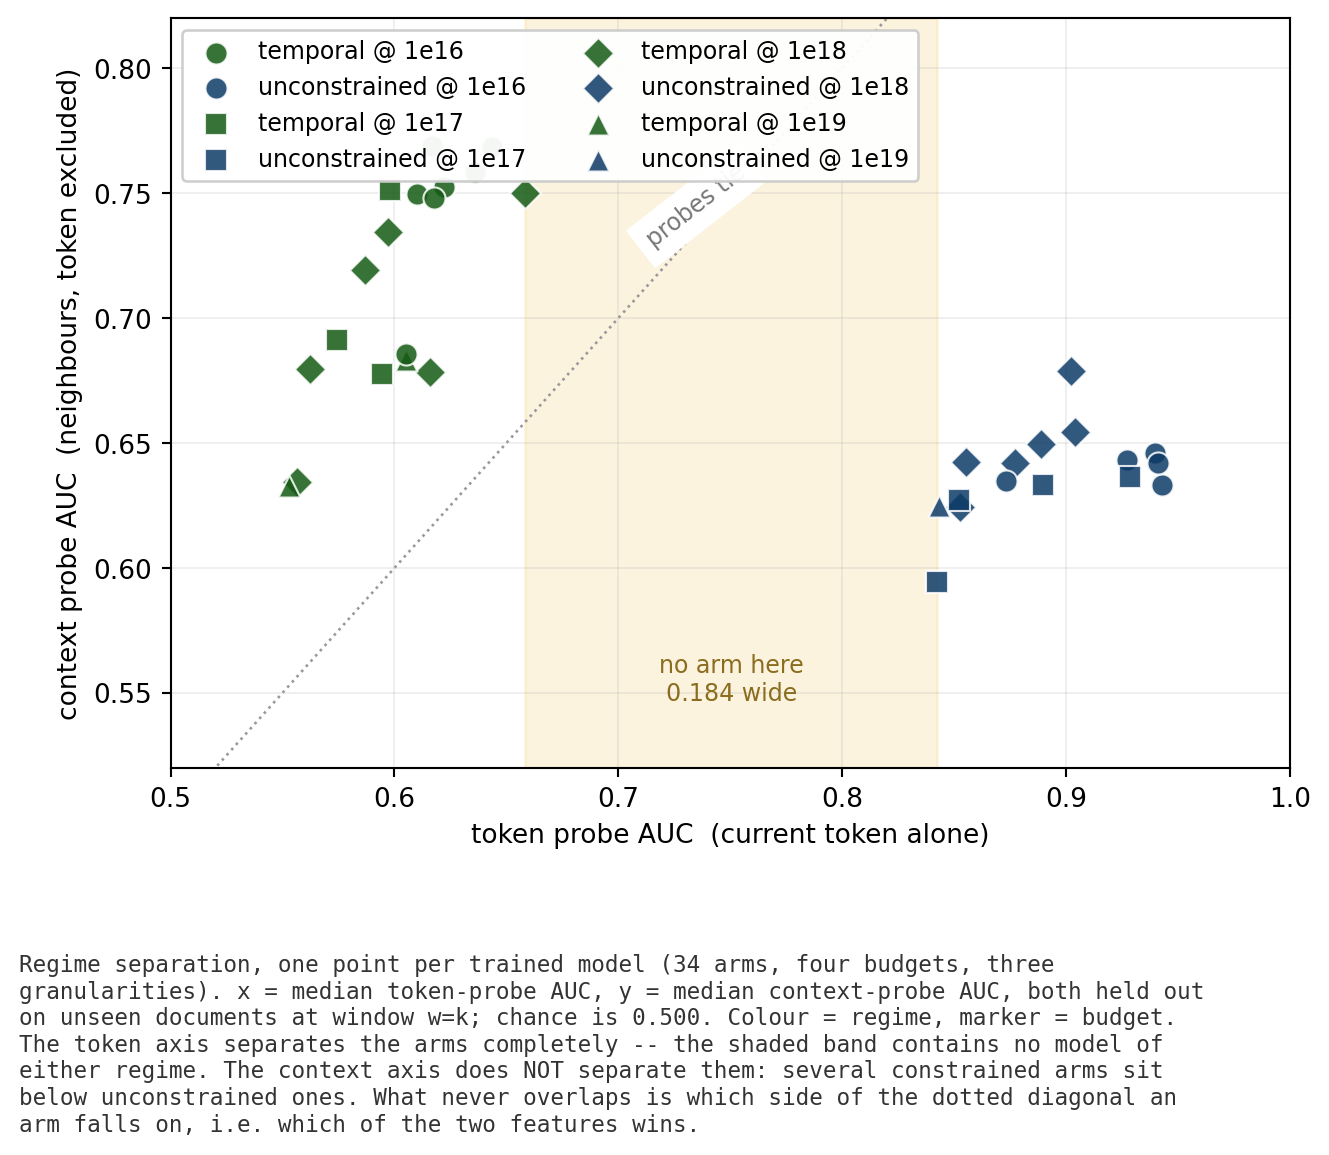
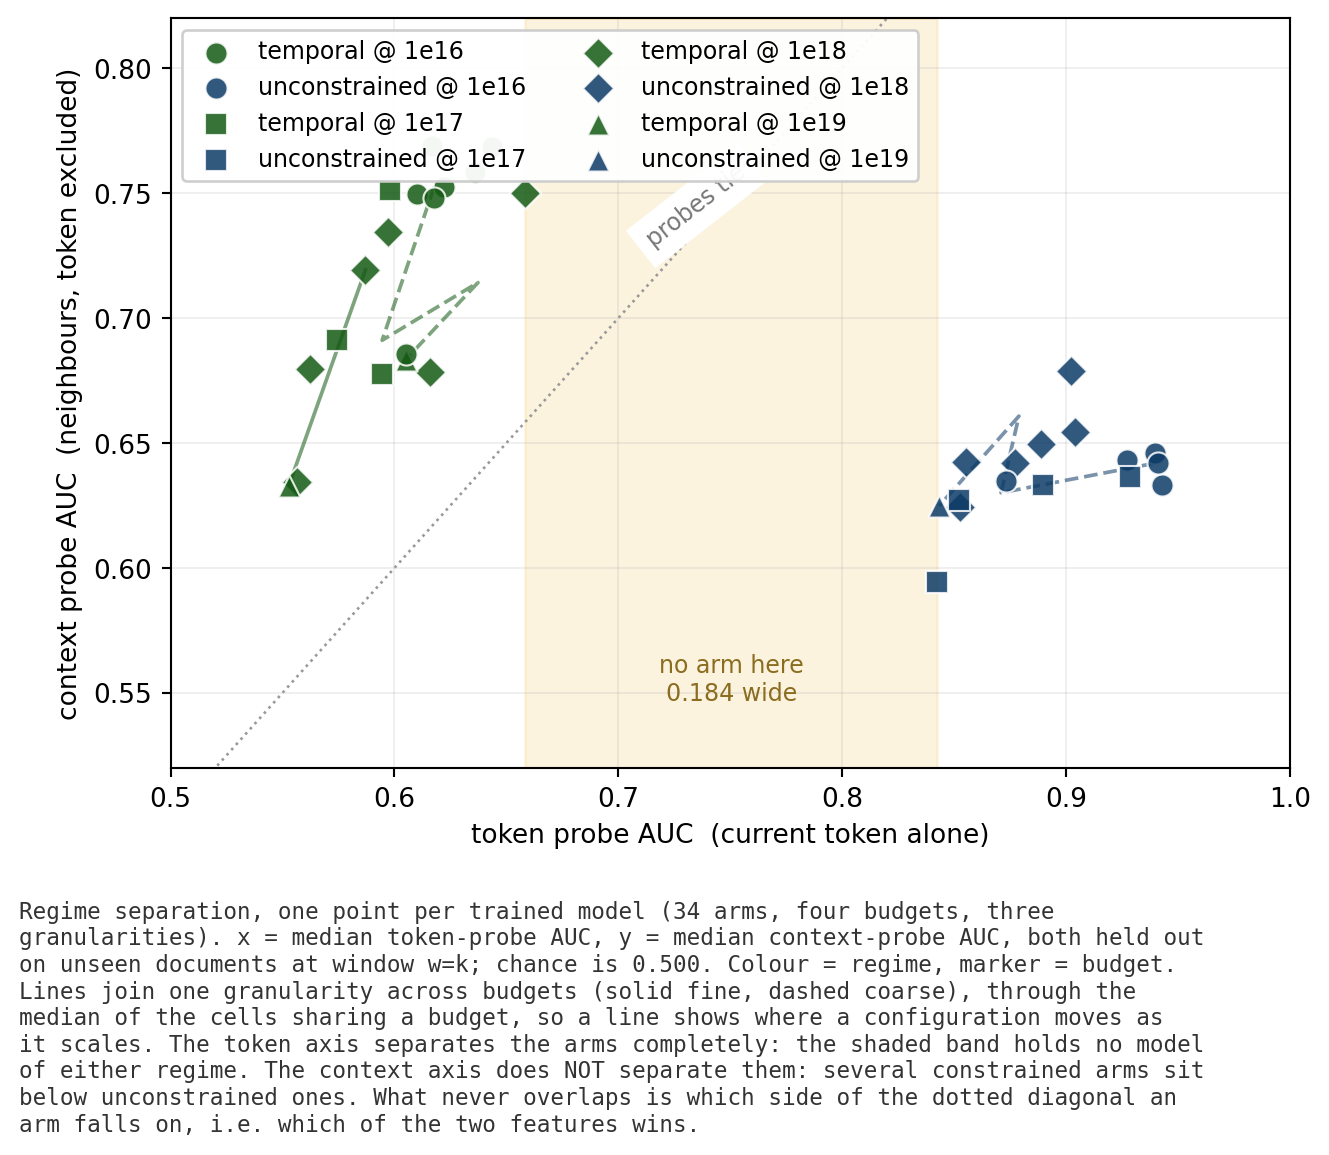
Join the scatter across budgets, and rebuild the eviction figure so its labels fit
Two figure fixes.

arm_separation.png now joins each granularity across budgets, solid for fine and dashed for coarse,
through the median of the cells sharing a budget. The scatter showed where the two clouds sit but not
which way a configuration moves as it scales, which is the question the four budgets exist to answer.
Connecting raw runs first produced a zigzag, because several runs share a regime, granularity and
budget; the line goes through the per-budget median instead.

eviction_policy_headroom_belady_bound.png was unreadable. Seven panels across fourteen inches left
each title about two inches for labels like "temporal @1e17, fine-grained (18 of 192 experts)", so
every one overran its neighbours, and the seven panels repeated the same ordering to make a single
point. Rebuilt as one chart, one bar per shipped configuration, grouped by policy.

The rebuild needed a new producer. probe_replay.py draws this figure but only runs where the router
logs are, and none of the 72 runs has a log on this machine. analysis/plots/plot_eviction_headroom.py
reads the committed CSV instead, so the figure is reproducible anywhere. probe_replay's copy is fixed
too, by wrapping the titles and widening the panels, so the two agree if both ever run.

Excluding the sixteen diversity-suppression screens changed the numbers, so the findings table is
updated to match the figure: least-recently-used 21.8%, shipped min-logit 26.2%, Belady 33.1%. The
[…]

diff --git a/analysis/plots/plot_eviction_headroom.py b/analysis/plots/plot_eviction_headroom.py
@@ -1,0 +1,104 @@
+#!/usr/bin/env python3
+"""How much a better eviction rule can buy, against the offline optimum.
+
+The seven-panel version of this figure was unreadable: seven panels across fourteen inches gave each
+title about two inches of width for a label like "temporal @1e17, fine-grained (18 of 192 experts)",
+so every title overran into its neighbours. Panels also repeated the same ordering seven times to make
+one point.
+
+This draws the shipped configurations only, one bar group per policy, with each configuration as a
+separate bar. The comparison the figure exists to make is Belady minus min_logit: a small gap means a
+smarter eviction rule has little left to win.
+
+`probe_replay.py` also emits a version of this figure, but only on a machine holding the router logs.
+This script reads the committed CSV instead, so the figure is reproducible anywhere. If the two ever
+disagree, this one is derived from the committed numbers and wins.
+
+  $PY analysis/plots/plot_eviction_headroom.py [--no-caption]
+
+Reads   results/ablations/e5_eviction_policy_headroom.csv
+Writes  results/phase0/figures/eviction_policy_headroom_belady_bound[_nocaption].png
+"""
+import csv
+import os
+import statistics as st
+import sys
+from collections import defaultdict
+
+import matplotlib
+
+matplotlib.use("Agg")
+import matplotlib.pyplot as plt  # noqa: E402
+import numpy as np  # noqa: E402
+
+PAPER = "--no-caption" in sys.argv
+REPO = os.path.abspath(os.path.join(os.path.dirname(__file__), "..", ".."))
+DATA = os.path.join(REPO, "results", "ablations")
+OUT = os.path.join(REPO, "results", "phase0", "figures")
+
+# The variant screens (anti-collapse penalties, bursty routing, head and momentum families) exist to
+# distort the expert distribution, so pooling them with the shipped cells would misstate the headroom.
+SCREENS = ("ant0p", "bursty", "_head", "_mom", "karen", "auxfree")
+
+# Worst to best, so the bars read upward toward the bound.
+ORDER = ["LRU", "min_logit", "Belady", "Belady+prefetch(h=16)", "Belady+prefetch(h=4)",
+         "Belady+prefetch(h=1)", "discounted-oracle(g=0.95)", "discounted-oracle(g=0.9)",
+         "discounted-oracle(g=0.5)"]
+COLOR = {"LRU": "#9e9e9e", "min_logit": "#2e7d32"}
+
+
+def load():
+    per = defaultdict(lambda: defaultdict(list))
+    label = {}
+    for r in csv.DictReader(open(os.path.join(DATA, "e5_eviction_policy_headroom.csv"))):
+        run = r["run"]
+        if any(s in run for s in SCREENS):
+            continue
+        try:
+            per[run][r["policy"]].append(float(r["set_coverage"]) * 100)
+        except (TypeError, ValueError):
+            continue
+        label[run] = f"{'temporal' if r['regime'] != 'full' else 'unconstrained'} {r['grain']} @{r['budget']}"
+    return {run: {p: st.median(v) for p, v in d.items()} for run, d in per.items()}, label
+
+
+tbl, label = load()
+runs = sorted(tbl, key=lambda r: label[r])
+pol = [p for p in ORDER if any(p in tbl[r] for r in runs)]
+
+fig, ax = plt.subplots(figsize=(9.2, 5.4) if PAPER else (9.6, 6.6))
+h = 0.8 / len(runs)
+for i, run in enumerate(runs):
+    vals = [tbl[run].get(p, np.nan) for p in pol]
+    ax.barh(np.arange(len(pol)) + i * h - 0.4 + h / 2, vals, height=h * 0.92,
+            label=label[run], zorder=2)
+
+gaps = [tbl[r]["Belady"] - tbl[r]["min_logit"] for r in runs if "Belady" in tbl[r] and "min_logit" in tbl[r]]
+ax.set_yticks(np.arange(len(pol)))
+ax.set_yticklabels(pol, fontsize=9)
+ax.invert_yaxis()
+ax.set_xlabel("set coverage, % of the top-k demand already resident   (higher is better)")
+ax.grid(True, axis="x", ls=":", alpha=0.35, zorder=0)
+ax.set_xlim(0, max(v for d in tbl.values() for v in d.values()) * 1.28)
+ax.legend(fontsize=8, loc="upper right", framealpha=0.95)
+ax.set_title("Eviction has little headroom; using future demand is what buys coverage", fontsize=11)
+
+if PAPER:
+    out = os.path.join(OUT, "eviction_policy_headroom_belady_bound_nocaption.png")
+else:
+    fig.subplots_adjust(bottom=0.26)
+    fig.text(0.02, 0.015,
+             "Set coverage under each eviction policy, replayed on the same logged demand at K=k with\n"
+             "one swap per token, median over layers. One bar per shipped configuration; the sixteen\n"
+             "diversity-suppression screens are excluded because they distort the expert distribution\n"
+             "by design. min_logit is the shipped rule and Belady is the offline optimum for a pure\n"
+             f"eviction rule, so their gap bounds what a smarter rule can win: {min(gaps):.1f} to\n"
+             f"{max(gaps):.1f} points here. The discounted-oracle rows clear that bound only because\n"
+             "they are allowed to see future demand, which is a different lever.",
+             fontsize=8.6, va="bottom", family="monospace", color="#333")
+    out = os.path.join(OUT, "eviction_policy_headroom_belady_bound.png")
+
+os.makedirs(OUT, exist_ok=True)
+fig.savefig(out, dpi=190, bbox_inches="tight")
+print(f"wrote {out}  ({len(runs)} shipped configs, {len(pol)} policies; "
+      f"Belady minus min_logit {min(gaps):.1f} to {max(gaps):.1f} points)")

diff --git a/analysis/plots/plot_arm_separation.py b/analysis/plots/plot_arm_separation.py
@@ -76,6 +76,33 @@ ax.plot([lo, hi], [lo, hi], color="#999", lw=1.0, ls=":", zorder=1)
 ax.text(0.735, 0.745, "probes tie", color="#777", fontsize=9, rotation=38,
         ha="center", va="center", backgroundcolor="white")
 
+def grain_of(run):
+    """Granularity from the run name. The locus CSVs carry no grain column."""
+    for tag, g in (("_g1", "coarse"), ("_g3", "fine"), ("_g5", "wide"),
+                   ("coarse", "coarse"), ("fine", "fine")):
+        if tag in run:
+            return g
+    return "fine" if "192" in run else "coarse"
+
+
+# Join each series across budgets, so the reader can see which way a configuration moves with scale
+# rather than only where the two clouds sit. One line per (regime, granularity).
+BUD_ORDER = {"1e16": 0, "1e17": 1, "1e18": 2, "1e19": 3}
+cell = defaultdict(list)
+for run, (reg, bud, t, c, dom) in A.items():
+    cell[(reg, grain_of(run), bud)].append((t, c))
+series = defaultdict(list)
+for (reg, g, bud), pts in cell.items():
+    series[(reg, g)].append((BUD_ORDER.get(bud, 9),
+                             st.median([p[0] for p in pts]), st.median([p[1] for p in pts])))
+for (reg, g), pts in series.items():
+    if len(pts) < 2:
+        continue
+    pts.sort()
+    ax.plot([p[1] for p in pts], [p[2] for p in pts],
+            color=TMP if reg == "temporal" else MOE, lw=1.4, alpha=0.55,
+            ls="-" if g == "fine" else "--", zorder=2)
+
 seen = set()
 for run, (reg, bud, t, c, dom) in sorted(A.items()):
     col = TMP if reg == "temporal" else MOE
@@ -110,8 +137,10 @@ else:
              "Regime separation, one point per trained model (34 arms, four budgets, three\n"
              "granularities). x = median token-probe AUC, y = median context-probe AUC, both held out\n"
              "on unseen documents at window w=k; chance is 0.500. Colour = regime, marker = budget.\n"
-             "The token axis separates the arms completely -- the shaded band contains no model of\n"
-             "either regime. The context axis does NOT separate them: several constrained arms sit\n"
+             "Lines join one granularity across budgets (solid fine, dashed coarse), through the\n"
+             "median of the cells sharing a budget, so a line shows where a configuration moves as\n"
+             "it scales. The token axis separates the arms completely: the shaded band holds no model\n"
+             "of either regime. The context axis does NOT separate them: several constrained arms sit\n"
              "below unconstrained ones. What never overlaps is which side of the dotted diagonal an\n"
              "arm falls on, i.e. which of the two features wins.",
              fontsize=8.6, va="bottom", family="monospace", color="#333")

diff --git a/analysis/probes/probe_replay.py b/analysis/probes/probe_replay.py
@@ -25,6 +25,8 @@ Convention (matches analysis/plots/plot_probe.py rolling()/overlap()):
   demanded expert is non-resident); the shipped policy then swaps exactly one expert in.
 """
 import os, sys, json
+import textwrap
+
 import numpy as np
 import matplotlib; matplotlib.use("Agg"); import matplotlib.pyplot as plt
 
@@ -904,7 +906,9 @@ def _fig_e4(curves):
 
 def _fig_e5(table):
     order = ["LRU", "min_logit", None, "discounted-oracle(g=0.9)", "Belady", "Belady+prefetch(h=16)"]
-    fig, axes = plt.subplots(1, len(HEADLINERS), figsize=(14, 5.2), sharey=True)
+    # Seven panels across 14 inches gives each title about two inches; the labels are far longer than
+    # that, so they used to overrun into their neighbours. Wrap them and widen the figure.
+    fig, axes = plt.subplots(1, len(HEADLINERS), figsize=(19, 5.6), sharey=True)
     for ax, run in zip(axes, HEADLINERS):
         res = table[run]
         names = list(res.keys()); vals = [res[n]["all"][0] * 100 for n in names]
@@ -914,7 +918,9 @@ def _fig_e5(table):
         ax.barh(np.arange(len(names)), vals, color=colors)
         ax.set_yticks(np.arange(len(names))); ax.set_yticklabels(names, fontsize=7)
         ax.axvline(ml, ls="--", c="C2", lw=1); ax.axvline(be, ls="--", c="C1", lw=1)
-        ax.set_title(label(run), fontsize=9); ax.set_xlabel("set hit-rate (%)")
+        ax.set_title("\n".join(textwrap.wrap(label(run), 26)), fontsize=8, linespacing=1.15)
+        ax.set_xlabel("set hit-rate (%)", fontsize=8)
+        ax.tick_params(axis="x", labelsize=7)
         ax.invert_yaxis(); ax.grid(True, ls=":", alpha=0.3, axis="x")
     fig.suptitle("Offline-optimal (Belady) eviction barely beats the shipped least-logit policy: eviction "
                  "learning has little headroom at K=k", fontsize=11)
@@ -924,7 +930,7 @@ def _fig_e5(table):
               "(evict the resident whose next demand is farthest ahead); discounted-oracle = exact "
               "learned-lookahead bound; +prefetch(h) = allow the swap to fire h tokens early. A small "
               "Belady-minus-min_logit gap means a smarter/learned eviction policy can buy little.")
-    fig.tight_layout(rect=[0, 0.11, 1, 0.95]); path = f"{OUT}/eviction_policy_headroom_belady_bound.png"
+    fig.tight_layout(rect=[0, 0.11, 1, 0.90]); path = f"{OUT}/eviction_policy_headroom_belady_bound.png"
     fig.savefig(path, dpi=140); plt.close(fig); print("wrote", path)
 
 

diff --git a/docs/research/mechanism/01-findings.md b/docs/research/mechanism/01-findings.md
@@ -180,14 +180,20 @@ The demand signal is the lever, and the eviction rule is not.
 
 | eviction policy | set coverage |
 |---|---|
-| discounted oracle, g = 0.5 | 0.510 |
-| discounted oracle, g = 0.9 | 0.492 |
-| Belady with prefetch, h = 1 | 0.439 |
-| Belady | 0.371 |
-| minimum logit | 0.310 |
-| least recently used | 0.251 |
+| discounted oracle, g = 0.5 | 49.5% |
+| discounted oracle, g = 0.9 | 45.8% |
+| Belady with prefetch, h = 1 | 41.7% |
+| Belady, the offline optimum | 33.1% |
+| minimum logit, shipped | 26.2% |
+| least recently used | 21.8% |
 
-Medians over the same 134 measurements. Higher is better. Belady is the offline optimum for a pure eviction rule, so the practical-to-oracle span is 0.251 to 0.371, and everything above it comes from using future demand rather than from evicting better.
+Medians over 66 measurements on the six shipped configurations, excluding the sixteen
+diversity-suppression screens, which distort the expert distribution by design. Higher is better.
+
+Belady is the offline optimum for a pure eviction rule, so the gap from the shipped policy up to it
+bounds what a smarter eviction rule can win: **6.5 to 9.7 points** across the six configurations.
+Everything above that line buys its coverage by seeing future demand, which is a different lever
+entirely.
 
 ![Eviction policy headroom against the Belady bound](../../../results/phase0/figures/eviction_policy_headroom_belady_bound.png)
 
